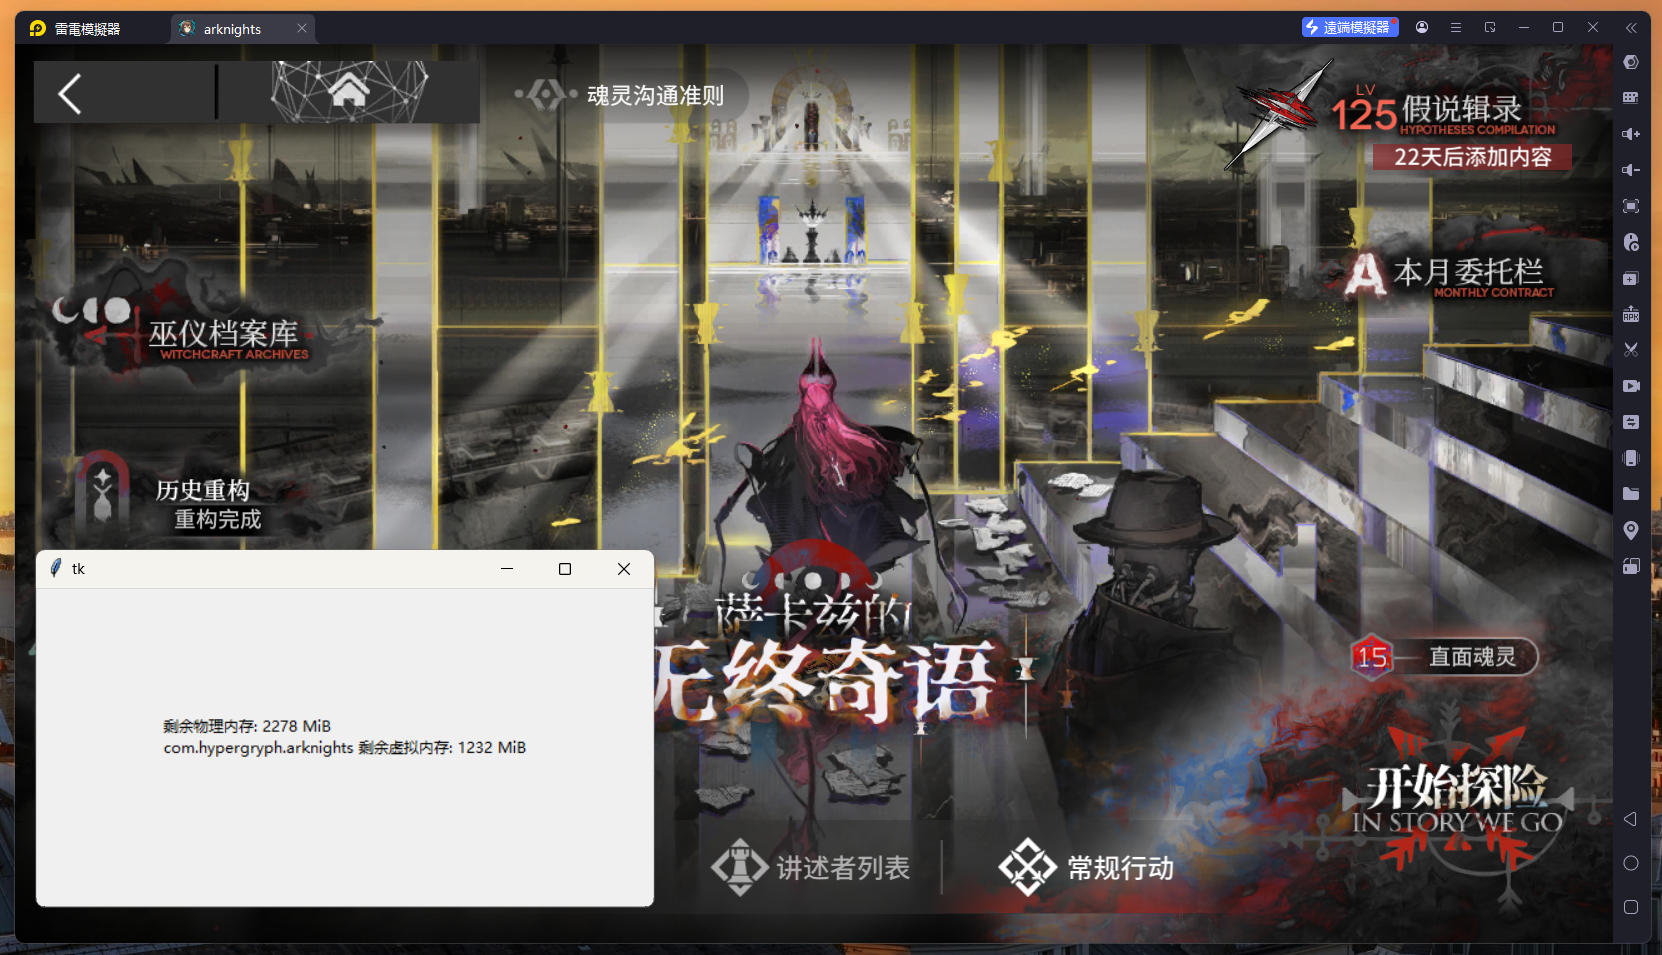
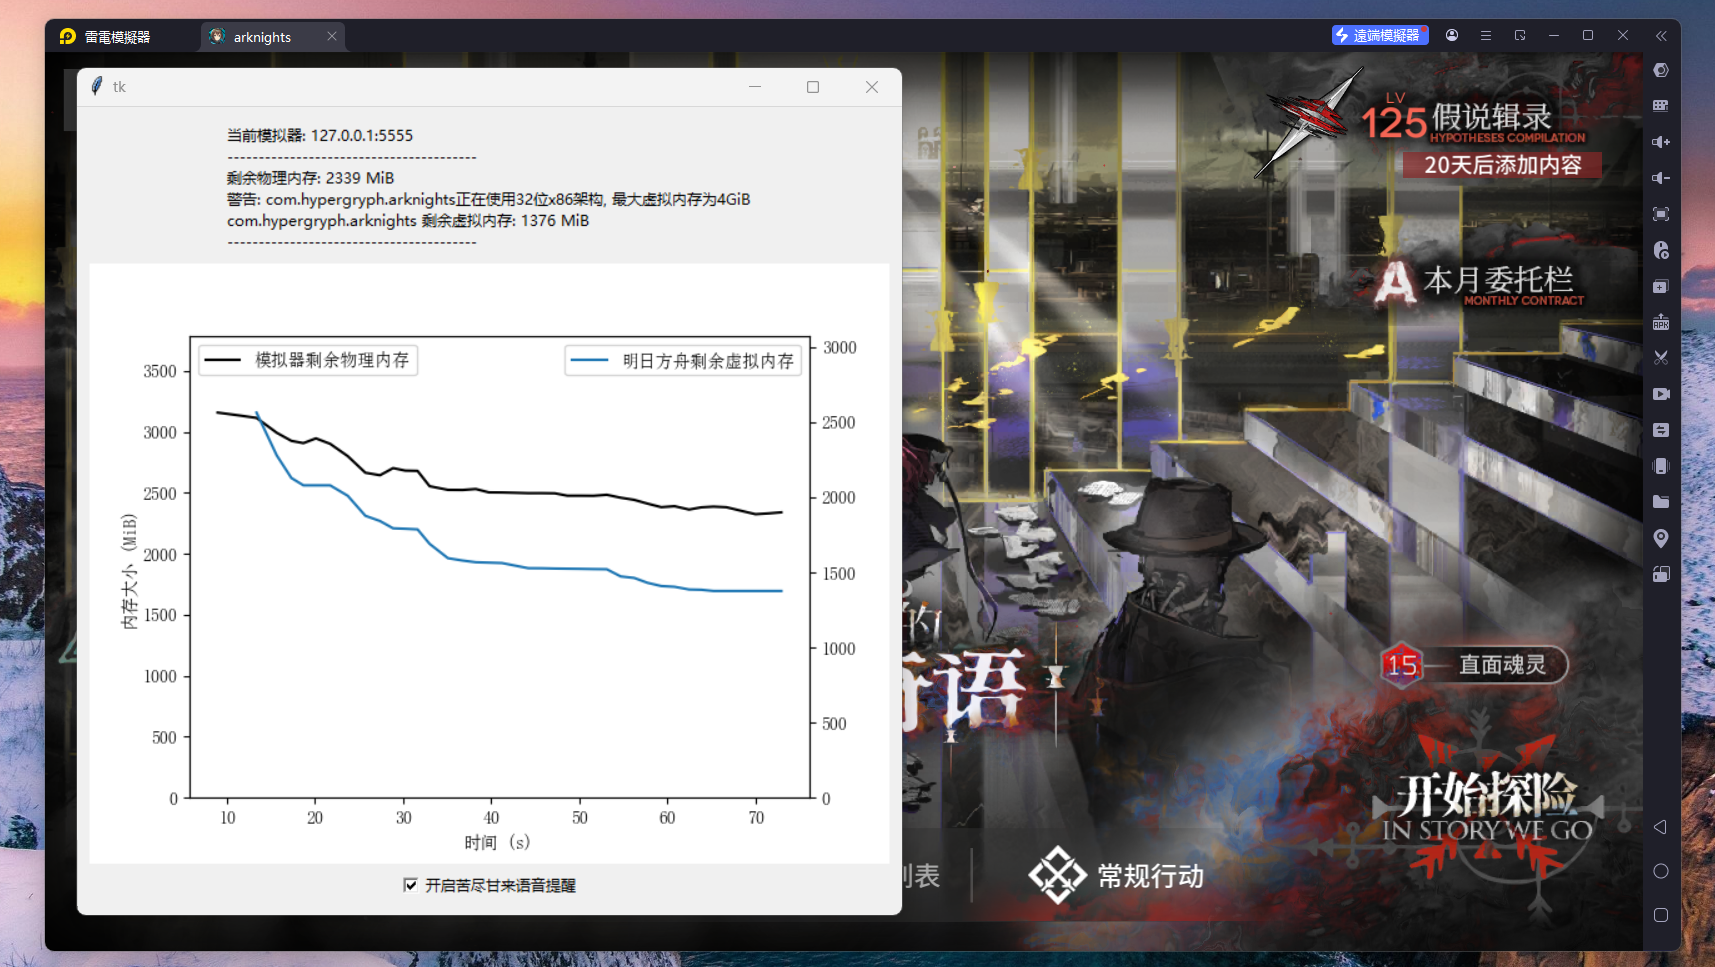
update img

diff --git a/README.md b/README.md
@@ -21,6 +21,8 @@
 
 ## 使用方法
 
+### 给程序员看的使用方法
+
 1. 开启模拟器的adb连接. 支持的模拟器: MUMU, LD
 
 2. `pip install -r requirements.txt`; 执行`main.py` (或者执行github action生成的二进制main.exe)
@@ -28,9 +30,25 @@
 3. 在游戏运行过程中, 保持本工具的开启. 本工具将自动周期获取模拟器的内存使用情况. 当内存不足时, 本工具使用windows的通知给出警告.
 
 
+### 给一般用户的使用方法
+
+1. 在 [https://github.com/pfyy/KuJinGanLai/actions](https://github.com/pfyy/KuJinGanLai/actions) 页面下载最新的workflow产物 (文件名应为`windows.zip`)
+
+2. 解压, 运行 `main.exe`.
+
+3. 在游戏运行过程中, 保持本工具的开启.
+
+
+![artifact](artifact.png)
+
+
 ## 截图
 
+mumu模拟器中游玩肉鸽时的截图, 肉眼可见的内存泄漏:
+
 ![mumu](mumu.png)
+
+ld模拟器, 我不常用, 所以只放了一个进入肉鸽界面后的内存占用图:
 
 ![ld](ld.png)
 
